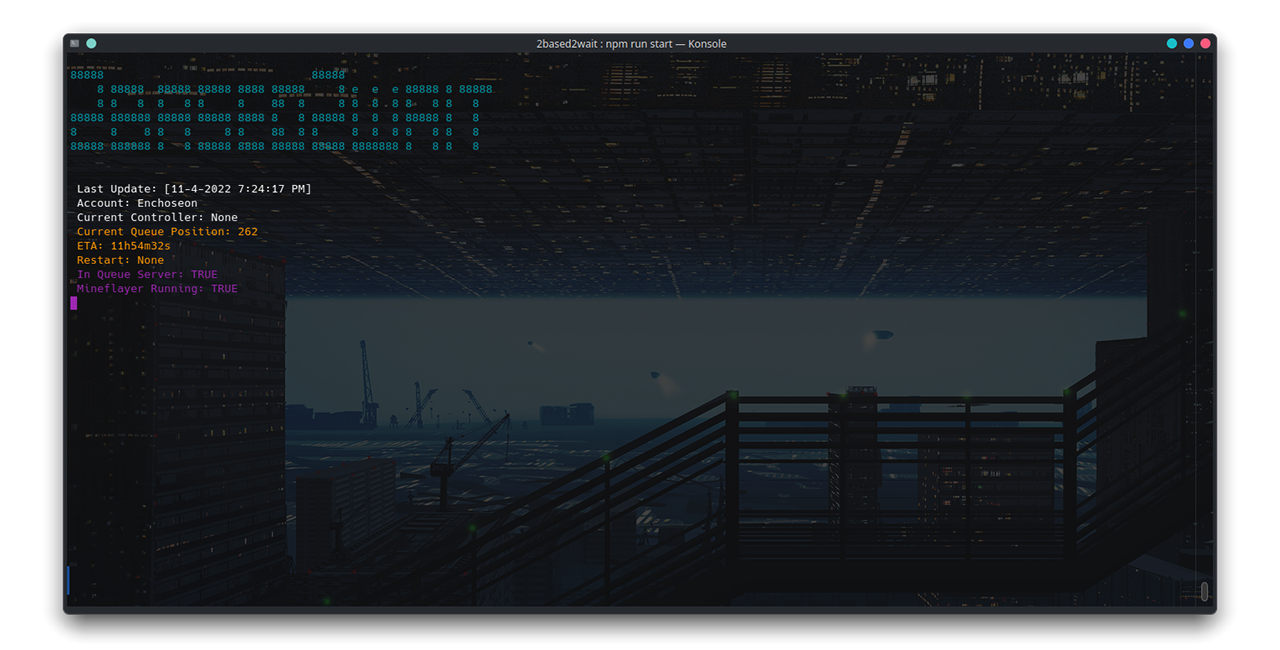
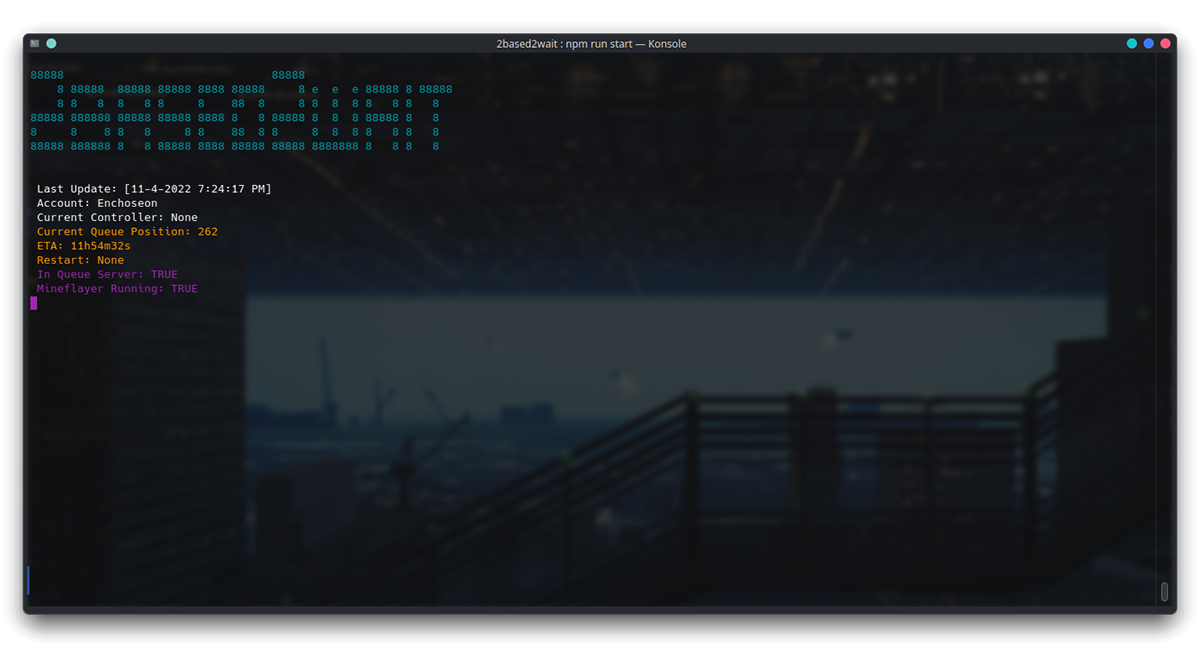
Resize, crop, and blur images
- Overall filesize reduced by ~67%
- Increased width of images in README
- Fixed incorrect image source in "Keep in Mind" section.

diff --git a/README.md b/README.md
@@ -62,9 +62,9 @@
 # Images
 
 <div align="center">
-  <img src="docs/images/cliGui.png" title="What else would you need?" alt="Cli Gui" width="85%"><br><em>No-Frills Cli Gui</em><br>
-  <img src="docs/images/webhooks.png" title="EZ elasticsearch integration :sunglasses:" alt="Webhooks" width="85%"><br><em>Convenient Discord Webhooks</em><br>
-  <img src="docs/images/grep.png" title="grep -rih 'Popbob Sex' *" alt="Grep" width="85%"><br><em>Extensive Logs</em><br>
+  <img src="docs/images/cliGui.png" title="What else would you need?" alt="Cli Gui" width="92.5%"><br><em>No-Frills Cli Gui</em><br>
+  <img src="docs/images/webhooks.png" title="EZ elasticsearch integration :sunglasses:" alt="Webhooks" width="92.5%"><br><em>Convenient Discord Webhooks</em><br>
+  <img src="docs/images/grep.png" title="grep -rih 'Popbob Sex' *" alt="Grep" width="92.5%"><br><em>Extensive Logs</em><br>
 </div>
 
 # For Developers
@@ -78,6 +78,6 @@ If you have a local copy of 2based2wait with a personal config.json that's being
 2based2wait ships with as many options __disabled by default__ as possible; including [auto-reconnect](https://github.com/Enchoseon/2based2wait/wiki/How-to-Auto-Reconnect-with-Supervisor), [ngrok tunneling](https://github.com/Enchoseon/2based2wait/wiki/How-to-Share-Accounts-With-A-Reverse-Proxy) (for sharing accounts), [coordination](https://github.com/Enchoseon/2based2wait/wiki/How-to-Proxy-Multiple-Accounts) (for multiple proxies), Discord webhooks, and much more.
 
 <div align="center">
-  <img src="https://files.catbox.moe/abuoh7.png" alt="Read the Fun Manual">
+  <img src="docs/images/RTFM.png" alt="Read the Fun Manual">
   <p><strong>If you want to utilize all the proxy's features you'll need to <a href="https://en.wikipedia.org/wiki/RTFM">RTFM</a>, <em>especially</em> the <a href="https://github.com/Enchoseon/2based2wait/blob/main/docs/configuration-guide.md">configuration guide</a>.</strong></p>
 </div>
